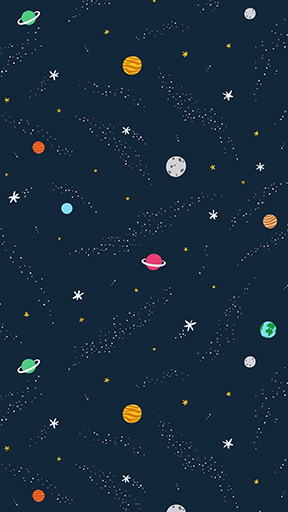
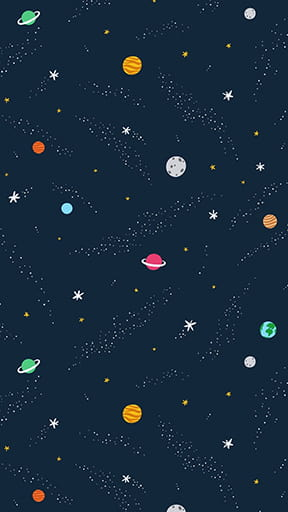
optimize images

diff --git a/index.js b/index.js
@@ -99,7 +99,7 @@ function draw() {
 			|| yPos + bird.height >= pipe[i].y + pipeUp.height + gap) 
 			|| yPos + bird.height >= cvs.height - fg.height) {
 
-			// failSound.play();
+			failSound.play();
 			birdLive = false;
 			requestAnimationFrame(gameOver);
 		}
@@ -415,12 +415,12 @@ function skinChange() {
 	const storageSkinKey = JSON.parse(localStorage.getItem('skinKey'));
 	if (storageSkinKey === 1 || !storageSkinKey) {
 		bird.src = "img/bird.png";
-		bg.src = "img/bg.png";
-		fg.src = "img/fg.png";
+		bg.src = "img/bg.jpg";
+		fg.src = "img/fg.jpg";
 		pipeUp.src = "img/pipeUp.png";
 		pipeBottom.src = "img/pipeBottom.png";
-		menuBlock.style.background = "url('./img/bg.png') no-repeat 50% 50% /cover";
-		afterGame.style.background = "url('./img/bg.png') no-repeat 50% 50% /cover";
+		menuBlock.style.background = "url('./img/bg.jpg') no-repeat 50% 50% /cover";
+		afterGame.style.background = "url('./img/bg.jpg') no-repeat 50% 50% /cover";
 		fly.src = "audio/fly.mp3";
 		setSkin1.className = "active";
 		setSkin2.className = "";
@@ -428,12 +428,12 @@ function skinChange() {
 		setSkin4.className = "";
 	} else if (storageSkinKey === 2) {
 		bird.src = "img/birdGray.png";
-		bg.src = "img/bgGray.png";
-		fg.src = "img/fgGray.png";
+		bg.src = "img/bgGray.jpg";
+		fg.src = "img/fgGray.jpg";
 		pipeUp.src = "img/pipeUpGray.png";
 		pipeBottom.src = "img/pipeBottomGray.png";
-		menuBlock.style.background = "url('./img/bgGray.png') no-repeat 50% 50% /cover";
-		afterGame.style.background = "url('./img/bgGray.png') no-repeat 50% 50% /cover";
+		menuBlock.style.background = "url('./img/bgGray.jpg') no-repeat 50% 50% /cover";
+		afterGame.style.background = "url('./img/bgGray.jpg') no-repeat 50% 50% /cover";
 		fly.src = "audio/fly.mp3";
 		setSkin1.className = "";
 		setSkin2.className = "active";
@@ -441,12 +441,12 @@ function skinChange() {
 		setSkin4.className = "";
 	} else if (storageSkinKey === 3) {
 		bird.src = "img/bird3.png";
-		bg.src = "img/bg3.png";
-		fg.src = "img/fg3.png";
+		bg.src = "img/bg3.jpg";
+		fg.src = "img/fg3.jpg";
 		pipeUp.src = "img/pipeUpOrange.png";
 		pipeBottom.src = "img/pipeBottomOrange.png";
-		menuBlock.style.background = "url('./img/bg3.png') no-repeat 50% 50% /cover";
-		afterGame.style.background = "url('./img/bg3.png') no-repeat 50% 50% /cover";
+		menuBlock.style.background = "url('./img/bg3.jpg') no-repeat 50% 50% /cover";
+		afterGame.style.background = "url('./img/bg3.jpg') no-repeat 50% 50% /cover";
 		fly.src = "audio/fly.mp3";
 		setSkin1.className = "";
 		setSkin2.className = "";

diff --git a/index.html b/index.html
@@ -71,7 +71,7 @@
 			href="https://plus.google.com/share?url=http://jasonwalkow.github.io/flappy-bird-clone/build/index.html" -->
 		</footer>
 	</div>
-	<div id="game_block" style="display: block">
+	<div id="game_block" style="display: none">
 		<div id="game_border">
 			<div id="game_content">
 				<div id="menu_block" style="display: block">
@@ -79,10 +79,10 @@
 					<img id="menu_play" src="./img/play.png" alt="">
 					<img id="menu_skins" src="./img/skins.png" alt="">
 					<div id="skins" style="display: none">
-						<img id="skin_1" src="./img/skin_1.png" alt="">
-						<img id="skin_2" src="./img/skin_2.png" alt="">
-						<img id="skin_3" src="./img/skin_3.png" alt="">
-						<img id="skin_4" src="./img/skin_4.png" alt="">
+						<img id="skin_1" src="./img/skin_1.jpg" alt="">
+						<img id="skin_2" src="./img/skin_2.jpg" alt="">
+						<img id="skin_3" src="./img/skin_3.jpg" alt="">
+						<img id="skin_4" src="./img/skin_4.jpg" alt="">
 					</div>
 					<img id="menu_leaders" src="./img/leaders.png" alt="">
 					<img id="menu_exit" src="./img/exit.png" alt="">
@@ -141,5 +141,10 @@
 		</div>
 	</div>
 <script src="./index.js"></script>
+<script>
+	if ('serviceWorker' in navigator && process.env.NODE_ENV === 'production') {
+	  navigator.serviceWorker.register('./sw.js', { scope: '/flappy_bird' });
+	};
+  </script>
 </body>
 </html>

diff --git a/workbox-config.js b/workbox-config.js
@@ -1,0 +1,8 @@
+module.exports = {
+  "globDirectory": "dist/",
+  "globPatterns": [
+    "**/*.{png,mp3,js,jpg,html,css}"
+  ],
+  "swDest": "dist/sw.js", 
+  "navigateFallback": "index.html"
+};
